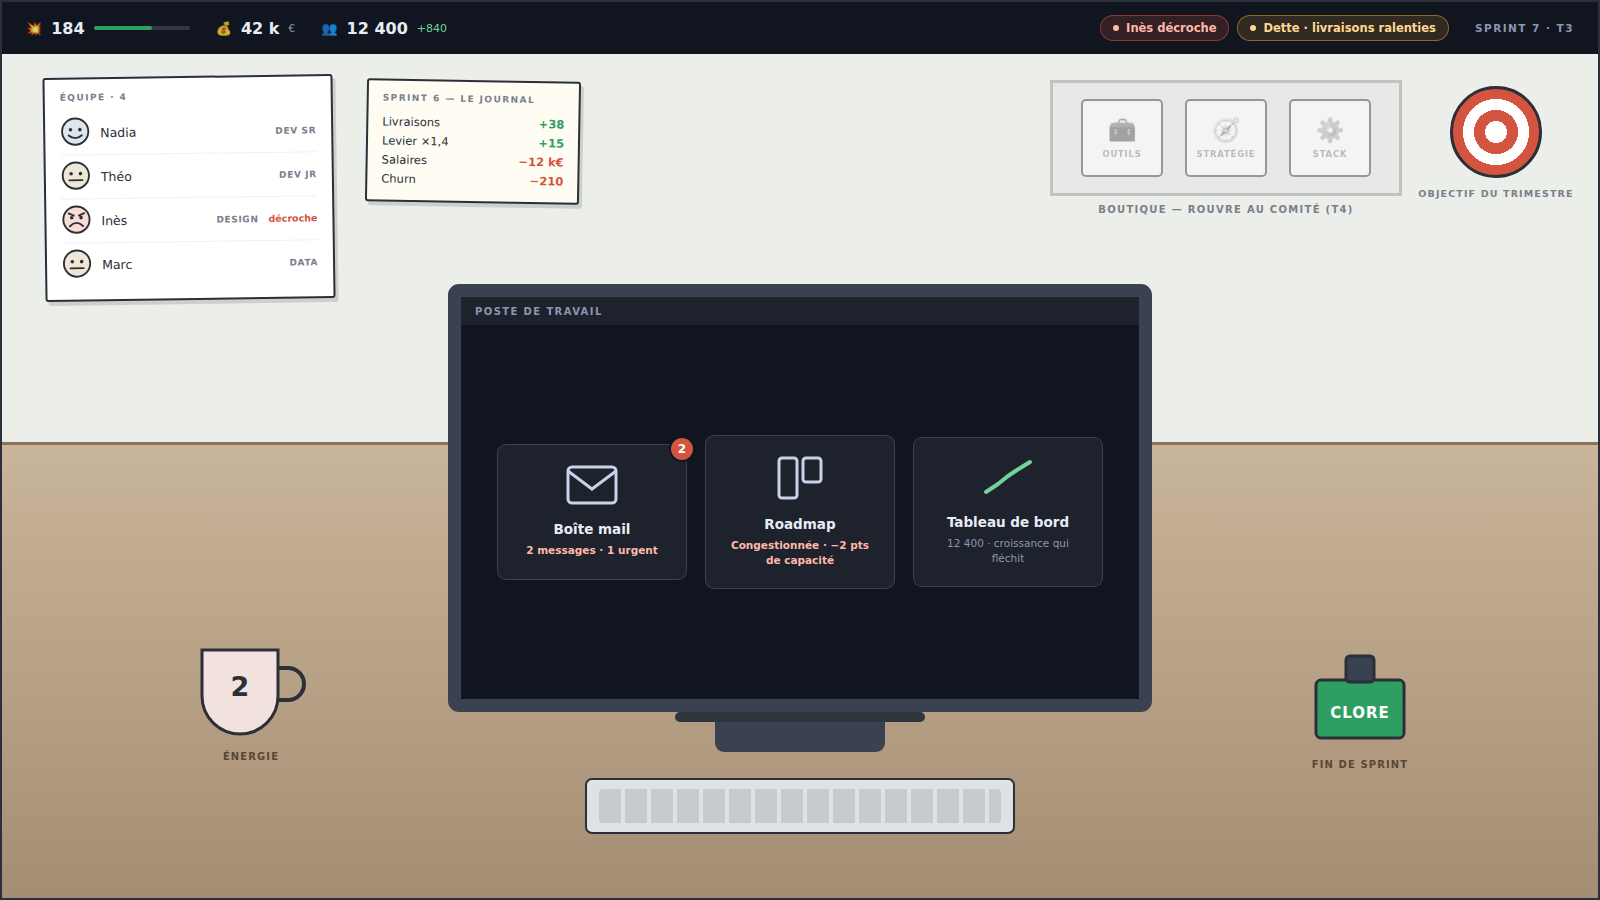
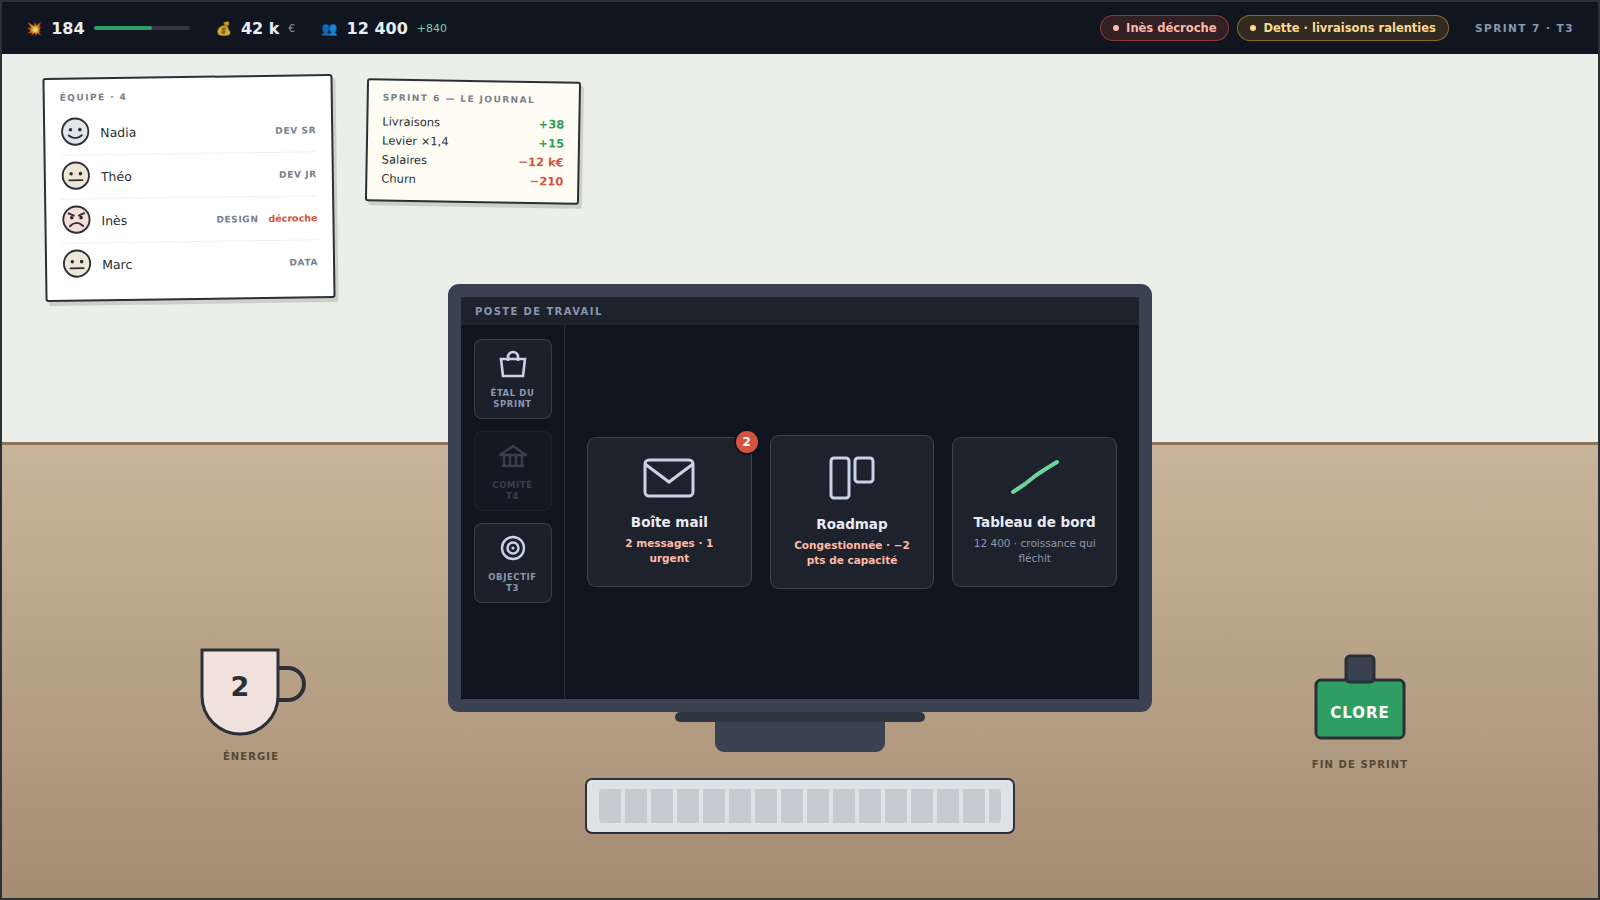
Sépare les deux boutiques et sort le rail du cœur de l'écran
L'étal du sprint reste ouvert en permanence ; le Comité de fin de
trimestre s'allume seulement quand le trimestre est franchi — la
résolution du trimestre est un moment à part et doit se voir comme tel.

Les deux vivent sur un rail latéral, volontairement en marge : acheter
n'est pas le geste de tous les sprints. L'étagère physique disparaît,
l'équipe et le journal restent au mur.

Claude-Session: https://claude.ai/code/session_01QCtUdjpnJqj7TA3XV2Rdiu

diff --git a/docs/maquettes/maquette-bureau.html b/docs/maquettes/maquette-bureau.html
@@ -63,21 +63,6 @@
   .ledger .p{color:var(--good);font-weight:700}
   .ledger .n{color:var(--bad);font-weight:700}
 
-  /* la boutique : une étagère, visible mais éteinte hors Comité */
-  .shelf{position:absolute;right:196px;top:26px;width:352px;height:116px;background:#e9e4da;
-         border:3px solid var(--wood-dark);display:flex;align-items:center;justify-content:center;gap:22px}
-  .shelf.locked{filter:grayscale(1);opacity:.45}
-  .prod{width:82px;height:78px;background:#fff;border:2px solid var(--ink);border-radius:5px;
-        display:flex;flex-direction:column;align-items:center;justify-content:center;gap:5px;font-size:23px}
-  .prod span{font-size:8.5px;letter-spacing:.09em;color:var(--muted);font-weight:700}
-  .shelf-tag{position:absolute;right:196px;top:150px;width:352px;text-align:center;font-size:10px;
-             letter-spacing:.13em;color:var(--muted);text-transform:uppercase;font-weight:600}
-
-  .target{position:absolute;right:56px;top:32px;width:92px;height:92px;border-radius:50%;
-          background:repeating-radial-gradient(circle,#fff 0 11px,#d3543f 11px 22px);border:3px solid var(--ink)}
-  .target-tag{position:absolute;right:14px;top:132px;width:176px;text-align:center;font-size:9.5px;
-              letter-spacing:.12em;color:var(--muted);text-transform:uppercase;line-height:1.6;font-weight:600}
-
   /* ── SUR LE PLATEAU : seulement ce qui est vraiment un objet ─────── */
   .obj{position:absolute;cursor:pointer;transition:transform .16s ease;z-index:5}
   .obj:hover{transform:translateY(-8px)}
@@ -100,7 +85,23 @@
   .osbar{height:28px;background:rgba(255,255,255,.06);display:flex;align-items:center;
          padding:0 14px;gap:10px;font-size:10px;letter-spacing:.14em;color:var(--panel-muted);font-weight:700}
   .osbar .back{cursor:pointer;color:#8fb0ff}
-  .osbody{flex:1;padding:20px 22px;overflow:hidden}
+  .osmain{flex:1;display:flex;min-height:0}
+
+  /* Le rail : ce qu'on achète et ce qu'on vise. Volontairement en marge —
+     ce n'est pas le geste de tous les sprints. */
+  .rail{width:104px;flex:0 0 104px;border-right:1px solid rgba(255,255,255,.1);
+        padding:14px 8px;display:flex;flex-direction:column;gap:12px;align-items:center}
+  .tile{width:78px;padding:10px 4px 8px;border-radius:8px;border:1px solid rgba(255,255,255,.13);
+        background:rgba(255,255,255,.05);text-align:center;cursor:pointer}
+  .tile:hover{background:rgba(255,255,255,.1);border-color:#5a7ad0}
+  .tile .lb{font-size:8.5px;letter-spacing:.07em;color:var(--panel-muted);margin-top:6px;
+            font-weight:700;line-height:1.3}
+  .tile.off{opacity:.32;cursor:default}
+  .tile.off:hover{background:rgba(255,255,255,.05);border-color:rgba(255,255,255,.13)}
+  .tile.live{border-color:#6ed49b;background:rgba(47,158,99,.16)}
+  .tile.live .lb{color:#6ed49b}
+
+  .osbody{flex:1;padding:20px 22px;overflow:hidden;min-width:0}
 
   /* le bureau du poste de travail : trois applications */
   .apps{display:flex;gap:18px;height:100%;align-items:center;justify-content:center}
@@ -137,6 +138,7 @@
   <button data-view="calme" aria-pressed="true">1 · Le bureau au calme</button>
   <button data-view="alerte" aria-pressed="false">2 · Ça remonte tout seul</button>
   <button data-view="app" aria-pressed="false">3 · Une application ouverte</button>
+  <button data-view="comite" aria-pressed="false">4 · La fin de trimestre</button>
 </div>
 <p class="note" id="note"></p>
 
@@ -170,16 +172,6 @@
       <div><span>Churn</span><span class="n">−210</span></div>
     </div>
 
-    <div class="shelf locked">
-      <div class="prod">🧰<span>OUTILS</span></div>
-      <div class="prod">🧭<span>STRATÉGIE</span></div>
-      <div class="prod">⚙<span>STACK</span></div>
-    </div>
-    <div class="shelf-tag">Boutique — rouvre au Comité (T4)</div>
-
-    <div class="target"></div>
-    <div class="target-tag">Objectif du trimestre</div>
-
     <div class="desk"></div>
 
     <!-- SUR LE PLATEAU : la tasse et le tampon. Rien d'autre. -->
@@ -209,7 +201,10 @@
     <div class="monitor">
       <div class="screen">
         <div class="osbar" id="osbar"></div>
-        <div class="osbody" id="osbody"></div>
+        <div class="osmain">
+          <div class="rail" id="rail"></div>
+          <div class="osbody" id="osbody"></div>
+        </div>
       </div>
       <div class="stand"></div>
       <div class="foot"></div>
@@ -230,6 +225,18 @@ function face(mood){
     ${brow}<path d="${mouth}" stroke="#2a2f38" stroke-width="2" fill="none" stroke-linecap="round"/></svg>`;
 }
 
+const RAIL_ICON = {
+  shop:`<svg width="30" height="28" viewBox="0 0 30 28"><path d="M3 9 h24 l-2 17 h-20 z" fill="none"
+        stroke="currentColor" stroke-width="2.6"/><path d="M10 11 v-4 a5 5 0 0 1 10 0 v4" fill="none"
+        stroke="currentColor" stroke-width="2.6"/></svg>`,
+  comite:`<svg width="30" height="28" viewBox="0 0 30 28"><path d="M4 24 h22 M6 24 v-11 M12 24 v-11
+        M18 24 v-11 M24 24 v-11 M2 13 h26 L15 4 z" fill="none" stroke="currentColor" stroke-width="2.4"
+        stroke-linejoin="round"/></svg>`,
+  target:`<svg width="30" height="28" viewBox="0 0 30 28"><circle cx="15" cy="14" r="11" fill="none"
+        stroke="currentColor" stroke-width="2.4"/><circle cx="15" cy="14" r="5.5" fill="none"
+        stroke="currentColor" stroke-width="2.4"/><circle cx="15" cy="14" r="1.6" fill="currentColor"/></svg>`
+};
+
 const ICON = {
   mail:`<svg width="52" height="40" viewBox="0 0 52 40"><rect x="2" y="2" width="48" height="36" rx="4"
         fill="none" stroke="#c8d2e8" stroke-width="3"/><path d="M2 6 L26 24 L50 6" fill="none"
@@ -240,6 +247,15 @@ const ICON = {
   dash:`<svg width="50" height="40" viewBox="0 0 50 40"><polyline points="3,34 15,26 25,18 34,12 47,4"
         fill="none" stroke="#6ed49b" stroke-width="4" stroke-linecap="round" stroke-linejoin="round"/></svg>`
 };
+
+function rail(v){
+  const t = (cls,ico,lb) => `<div class="tile ${cls}" style="color:${
+      cls==="live" ? "#6ed49b" : cls==="off" ? "#8b97b0" : "#c8d2e8"}">${RAIL_ICON[ico]}
+      <div class="lb">${lb}</div></div>`;
+  return t("", "shop", "ÉTAL DU<br>SPRINT")
+       + t(v.comite ? "live" : "off", "comite", v.comite ? "COMITÉ<br>OUVERT" : "COMITÉ<br>T4")
+       + t("", "target", "OBJECTIF<br>T3");
+}
 
 function apps(v){
   return `<div class="apps">
@@ -265,23 +281,40 @@ const MAILAPP = `
   </div>
   <div class="skip">Ne pas répondre → se résout au pire, à la clôture</div>`;
 
+const COMITE = `
+  <div style="font-size:11px;letter-spacing:.13em;color:#6ed49b;font-weight:700;margin-bottom:12px">
+    TRIMESTRE 3 FRANCHI · 💥 62 À ENGAGER</div>
+  <div class="replies">
+    <div class="reply"><b>Décision stratégique</b> &nbsp;·&nbsp; 1 par trimestre, irréversible &nbsp;·&nbsp; 💥 40</div>
+    <div class="reply"><b>Capacité d'outillage</b> &nbsp;·&nbsp; +1 slot &nbsp;·&nbsp; 💥 28</div>
+    <div class="reply"><b>Relever le cap d'effectif</b> &nbsp;·&nbsp; 5 → 6 &nbsp;·&nbsp; 💥 22</div>
+  </div>
+  <div class="skip" style="color:#8b97b0">Le prochain quota double. Ce que vous n'engagez pas reste au portefeuille.</div>`;
+
 const VIEWS = {
   calme:{
     note:"Trois chiffres sur une ligne, et rien d'autre. Le Moral, la Dette, le Capital politique, le Cynisme, le Levier, les charges : tout tourne, rien n'est écrit. Le poste de travail montre ses trois logiciels ; le papier reste au mur ; sur le plateau il ne reste que ce qui est vraiment un objet.",
     alerts:[], moods:["ok","ok","ok","ok"], flag:"", jam:false, energy:10, low:false,
-    mail:2, mailSt:"2 messages", roadSt:"6 tickets au backlog", dashSt:"12 400 utilisateurs", open:null
+    mail:2, mailSt:"2 messages", roadSt:"6 tickets au backlog", dashSt:"12 400 utilisateurs",
+    comite:false, open:null
   },
   alerte:{
     note:"Rien n'a été cliqué : c'est le jeu qui vient prévenir. Inès décroche — son visage change au mur avant qu'un seul chiffre soit affiché — et l'application Roadmap signale la congestion. Les seuils vivent dans balance.json, et le motif existe déjà dans le code de #43 (get_employee_alert, alertAt: 25).",
     alerts:[["bad","Inès décroche"],["warn","Dette · livraisons ralenties"]],
     moods:["ok","meh","bad","meh"], flag:"décroche", jam:true, energy:2, low:true,
     mail:2, mailSt:"2 messages · 1 urgent", roadSt:"Congestionnée · −2 pts de capacité",
-    dashSt:"12 400 · croissance qui fléchit", open:null
+    dashSt:"12 400 · croissance qui fléchit", comite:false, open:null
   },
   app:{
     note:"L'application s'ouvre dans l'écran, et le bureau continue d'exister autour : l'équipe au mur, la tasse, le tampon. On peut fermer, aller ouvrir la Roadmap pour vérifier son backlog, puis revenir répondre. On peut aussi ne pas répondre — ça se résout dans la pire branche, et ça se paie.",
     alerts:[["bad","Inès décroche"]], moods:["ok","meh","bad","meh"], flag:"décroche",
-    jam:true, energy:2, low:true, mail:2, mailSt:"", roadSt:"", dashSt:"", open:"Boîte mail"
+    jam:true, energy:2, low:true, mail:2, mailSt:"", roadSt:"", dashSt:"",
+    comite:false, open:"Boîte mail"
+  },
+  comite:{
+    note:"La fin de trimestre est un moment à part, et ça se voit : la tuile Comité s'allume, elle ne l'était à aucun autre sprint. L'étal du sprint, lui, est resté ouvert tout du long — deux boutiques, deux rythmes. Le rail est volontairement en marge : acheter n'est pas le geste de tous les sprints.",
+    alerts:[], moods:["ok","ok","meh","ok"], flag:"", jam:false, energy:6, low:false,
+    mail:0, mailSt:"", roadSt:"", dashSt:"", comite:true, open:"Comité d'investissement"
   }
 };
 
@@ -297,7 +330,9 @@ function apply(name){
   document.getElementById("osbar").innerHTML = v.open
     ? `<span class="back">◂ POSTE DE TRAVAIL</span><span>·</span><span>${v.open.toUpperCase()}</span>`
     : `<span>POSTE DE TRAVAIL</span>`;
-  document.getElementById("osbody").innerHTML = v.open ? MAILAPP : apps(v);
+  document.getElementById("rail").innerHTML = rail(v);
+  document.getElementById("osbody").innerHTML =
+    v.open === "Comité d'investissement" ? COMITE : v.open ? MAILAPP : apps(v);
   document.querySelectorAll(".tools button").forEach(b=>
     b.setAttribute("aria-pressed", String(b.dataset.view===name)));
 }
